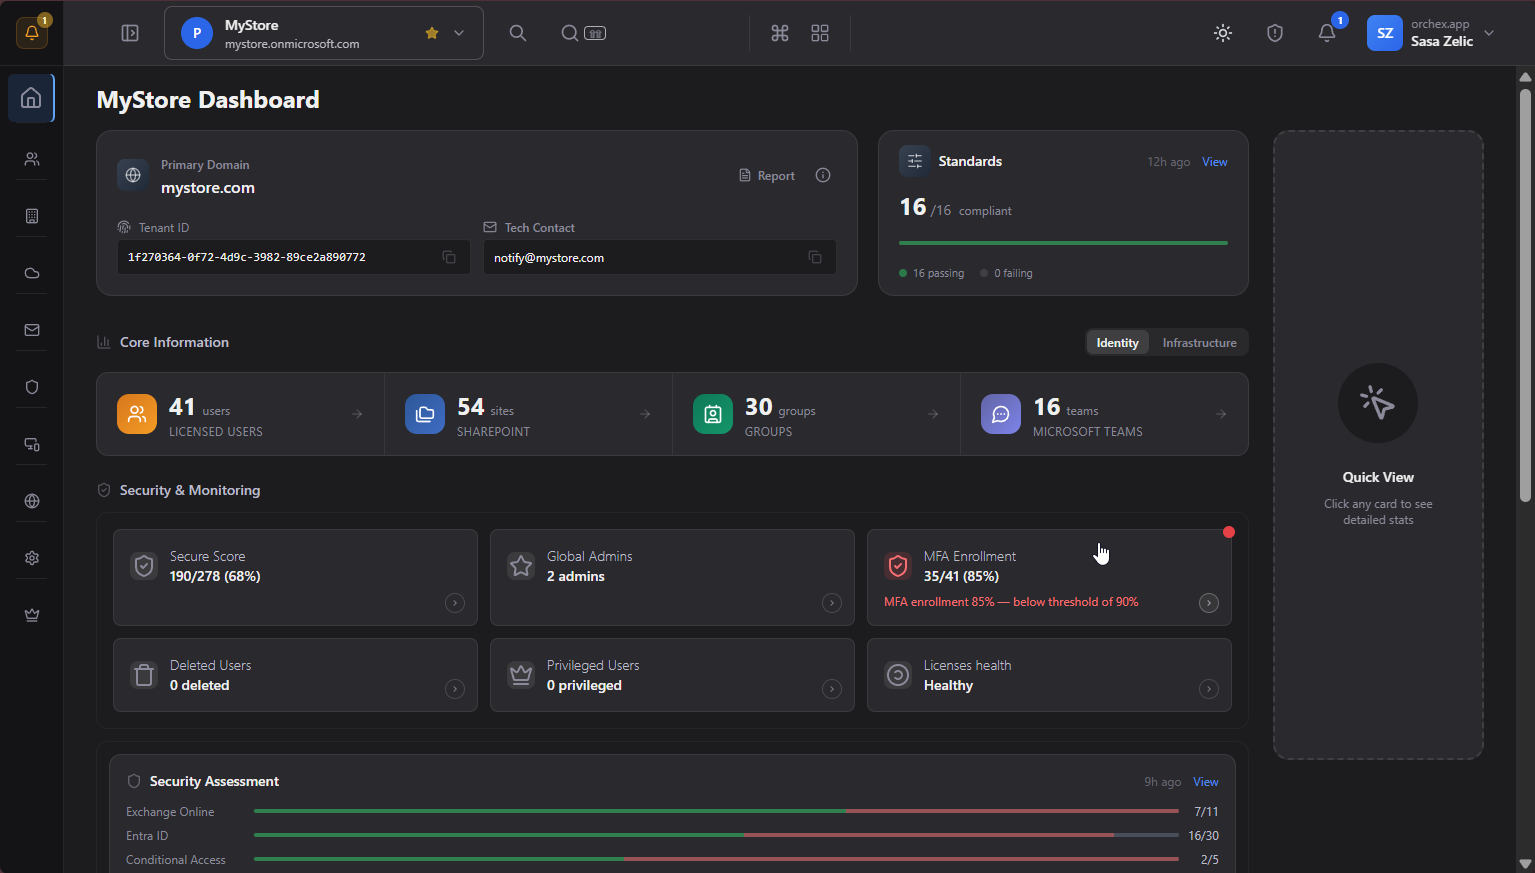
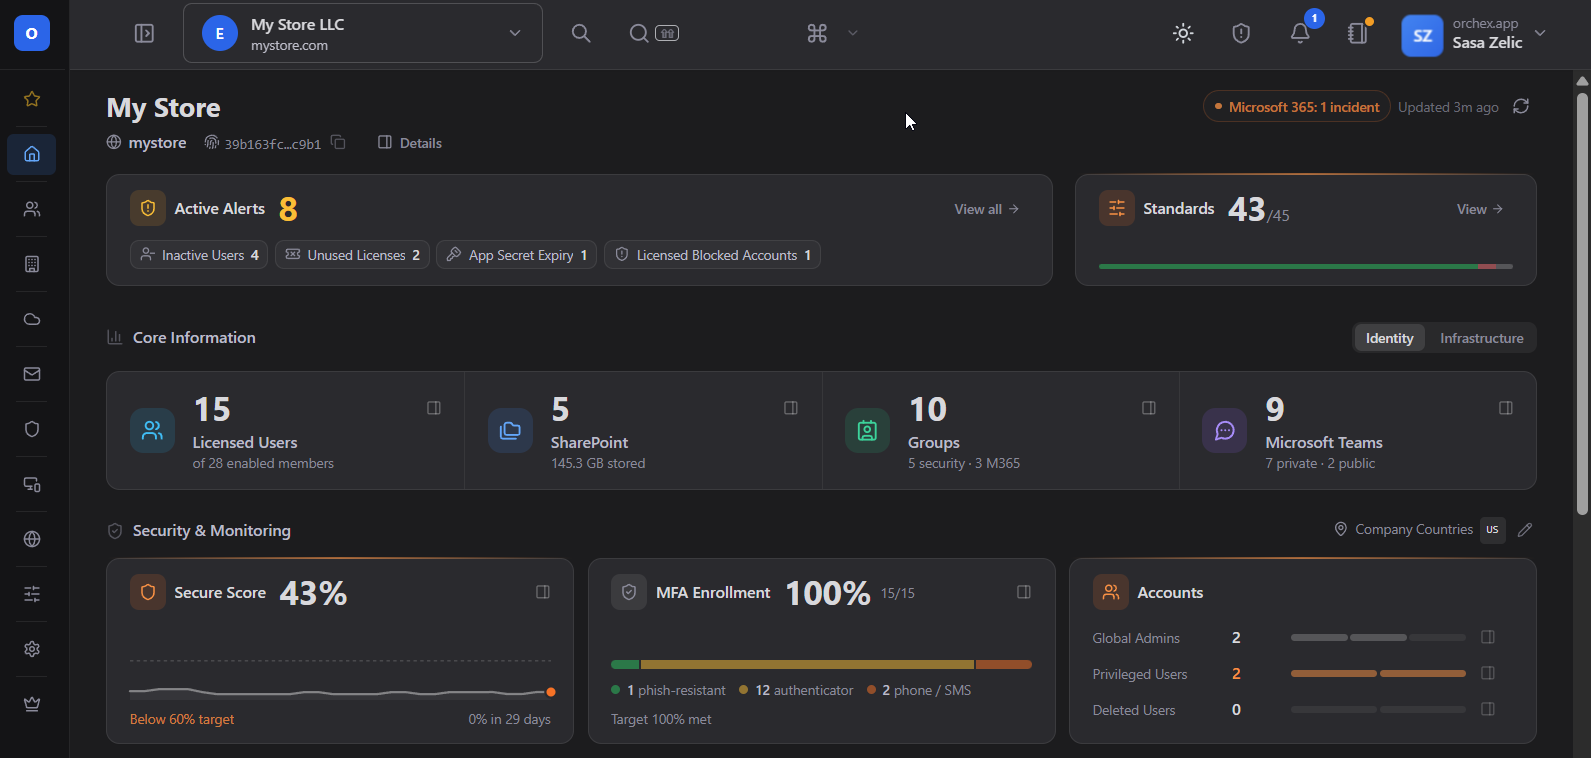
Refresh screenshots, drop three feature sections, move Client Requests down
Fit each paired screenshot's flex to its new shape so pairs render at one
height. Remove the Tenant Capabilities, Tenant Management and SharePoint
sections and the Effective Standards shot (Standards is now 2 x 2), and
move Client Requests ahead of Teams.

diff --git a/src/App.vue b/src/App.vue
@@ -100,34 +100,18 @@
           </ul>
         </div>
         <div class="feature-wide-img-row feature-wide-img-row--compact">
-          <div class="feature-wide-img" style="flex: 1.21">
+          <div class="feature-wide-img" style="flex: 1.18">
             <img src="/images/UserOnboard.png" alt="ORCHEX User Onboarding — results" />
             <div class="feature-sub-caption">
               <strong>Onboarding — Results</strong>
             </div>
           </div>
-          <div class="feature-wide-img" style="flex: 1.34">
+          <div class="feature-wide-img" style="flex: 1.30">
             <img src="/images/UserOffboard.png" alt="ORCHEX User Offboarding — configure actions" />
             <div class="feature-sub-caption">
               <strong>Offboarding — Configure Actions</strong>
             </div>
           </div>
-        </div>
-      </div>
-
-      <!-- 2. Client Requests — extends lifecycle story -->
-      <div class="feature-wide">
-        <div class="feature-wide-header">
-          <span class="feature-label">User Lifecycle</span>
-          <h2>Let clients submit requests. You stay in control.</h2>
-          <ul class="feature-list feature-list-cols">
-            <li>Pre-fills the wizard — name, job title, tenant, copy-from user, notes</li>
-            <li>API-key authentication — one key per client portal, revocable instantly</li>
-            <li>Human in the loop — no automatic tenant changes, ever</li>
-          </ul>
-        </div>
-        <div class="feature-wide-img">
-          <img src="/images/ClientRequests.png" alt="ORCHEX Client Requests — onboarding and offboarding intake queue" />
         </div>
       </div>
 
@@ -146,21 +130,17 @@
             <li>Track compliance over time — daily % across all tenants, with per-tenant drill-down at any point in history</li>
           </ul>
         </div>
-        <div class="feature-wide-img">
-          <img src="/images/Standards.png" alt="ORCHEX Standards Templates — enforce settings across all tenants" />
-        </div>
-
         <div class="feature-wide-img-row">
-          <div class="feature-wide-img" style="flex: 2.22">
+          <div class="feature-wide-img" style="flex: 2.35">
+            <img src="/images/Standards.png" alt="ORCHEX Standards Templates — enforce settings across all tenants" />
+            <div class="feature-sub-caption">
+              <strong>Standards Templates</strong>
+            </div>
+          </div>
+          <div class="feature-wide-img" style="flex: 2.32">
             <img src="/images/StandardsCompliance.png" alt="ORCHEX Standards Compliance — track compliance across all tenants" />
             <div class="feature-sub-caption">
               <strong>Standards Compliance</strong>
-            </div>
-          </div>
-          <div class="feature-wide-img" style="flex: 2.27">
-            <img src="/images/EffectiveStandards.png" alt="ORCHEX Effective Standards — inspect what is applied to a tenant" />
-            <div class="feature-sub-caption">
-              <strong>Effective Standards</strong>
             </div>
           </div>
         </div>
@@ -197,13 +177,13 @@
           </ul>
         </div>
         <div class="feature-wide-img-row">
-          <div class="feature-wide-img" style="flex: 1.80">
+          <div class="feature-wide-img" style="flex: 1.63">
             <img src="/images/AlertsTable.png" alt="ORCHEX Security Alerts — active alerts across all tenants" />
             <div class="feature-sub-caption">
               <strong>Active Alerts</strong>
             </div>
           </div>
-          <div class="feature-wide-img" style="flex: 1.58">
+          <div class="feature-wide-img" style="flex: 1.63">
             <img src="/images/TenantAlertConfig.png" alt="ORCHEX Alert Configuration — per-alert-type settings and active checks" />
             <div class="feature-sub-caption">
               <strong>Alert Configuration</strong>
@@ -274,10 +254,10 @@
           </ul>
         </div>
         <div class="feature-wide-img-row">
-          <div class="feature-wide-img" style="flex: 2.48">
+          <div class="feature-wide-img" style="flex: 1.93">
             <img src="/images/SecurityAssesment.png" alt="ORCHEX Security Assessment — Exchange Online checks grouped by category with risk levels, baseline sources and standard badges" />
           </div>
-          <div class="feature-wide-img" style="flex: 2.27">
+          <div class="feature-wide-img" style="flex: 1.82">
             <img src="/images/SecurityAssesmentConfig.png" alt="ORCHEX Security Assessment Config — toggle checks per category, with app exclusion lists for the application-security checks" />
           </div>
         </div>
@@ -320,7 +300,7 @@
               <strong>Overview — click any card to filter the table</strong>
             </div>
           </div>
-          <div class="feature-wide-img" style="flex: 1.89">
+          <div class="feature-wide-img" style="flex: 1.86">
             <img src="/images/Licenses.png" alt="ORCHEX License Management — usage, availability and seats per SKU" />
             <div class="feature-sub-caption">
               <strong>Licenses — usage, availability and seats per SKU</strong>
@@ -355,7 +335,7 @@
               <strong>Overview — click a card to filter the table</strong>
             </div>
           </div>
-          <div class="feature-wide-img" style="flex: 2.37">
+          <div class="feature-wide-img" style="flex: 2.43">
             <img src="/images/Users.png" alt="ORCHEX Users — unified identity view" />
             <div class="feature-sub-caption">
               <strong>Users — the filtered result, one row per identity</strong>
@@ -432,37 +412,6 @@
         </div>
       </div>
 
-      <!-- 11. Tenant Capabilities — visibility -->
-      <div class="feature-wide">
-        <div class="feature-wide-header">
-          <span class="feature-label">Tenant Capabilities</span>
-          <h2>Know exactly which tenants have what — before it becomes a problem.</h2>
-          <ul class="feature-list feature-list-cols">
-            <li>License matrix across all tenants: Entra P1/P2, MDO, Intune P1/P2, Defender XDR</li>
-            <li>Smart filters: Missing Entra P1, Missing Entra P2, Fully covered</li>
-            <li>Per-tenant capability drill-down with source SKUs and unit counts</li>
-            <li>Purchase recommendations for missing capabilities</li>
-            <li>Scheduled background checks — always up to date without manual refresh</li>
-          </ul>
-        </div>
-        <!-- The sidebar shot is portrait and the matrix is landscape, so equal
-             columns would render it nearly three times taller. -->
-        <div class="feature-wide-img-row">
-          <div class="feature-wide-img" style="flex: 2.13">
-            <img src="/images/TenantCapabilities.png" alt="ORCHEX Tenant Capabilities — license matrix across all tenants" />
-            <div class="feature-sub-caption">
-              <strong>Capability Matrix</strong>
-            </div>
-          </div>
-          <div class="feature-wide-img" style="flex: 0.79">
-            <img src="/images/TenantCapabilitiesSidebar.png" alt="ORCHEX License Details — source SKUs and recommendations per tenant" />
-            <div class="feature-sub-caption">
-              <strong>License Details</strong>
-            </div>
-          </div>
-        </div>
-      </div>
-
       <!-- 12. Enterprise Applications — credential management -->
       <div class="feature-wide">
         <div class="feature-wide-header">
@@ -515,22 +464,19 @@
         </div>
       </div>
 
-      <!-- 17. Tenant Management — setup/admin -->
+      <!-- 2. Client Requests — extends lifecycle story -->
       <div class="feature-wide">
         <div class="feature-wide-header">
-          <span class="feature-label">Tenant Management</span>
-          <h2>Full control over every tenant connection.</h2>
+          <span class="feature-label">User Lifecycle</span>
+          <h2>Let clients submit requests. You stay in control.</h2>
           <ul class="feature-list feature-list-cols">
-            <li>CPV tab — consent status per tenant, re-run consent directly from the portal</li>
-            <li>Permissions tab — verify all app registration roles and delegated scopes are assigned</li>
-            <li>Access Check tab — verify portal access to each tenant on demand or on a schedule</li>
-            <li>GDAP Health tab — relationship status, expiry dates, and assigned roles per tenant</li>
-            <li>Daily automated checks — expiring GDAP, stale CPV consent, and access failures surface as Portal Health warnings</li>
-            <li>Schedule Apply Permissions — push updated app permissions to all tenants with one click</li>
+            <li>Pre-fills the wizard — name, job title, tenant, copy-from user, notes</li>
+            <li>API-key authentication — one key per client portal, revocable instantly</li>
+            <li>Human in the loop — no automatic tenant changes, ever</li>
           </ul>
         </div>
         <div class="feature-wide-img">
-          <img src="/images/Tenants.png" alt="ORCHEX Tenant Management — permissions, CPV, GDAP and access check" />
+          <img src="/images/ClientRequests.png" alt="ORCHEX Client Requests — onboarding and offboarding intake queue" />
         </div>
       </div>
 
@@ -548,45 +494,16 @@
           </ul>
         </div>
         <div class="feature-wide-img-row">
-          <div class="feature-wide-img" style="flex: 1.90">
+          <div class="feature-wide-img" style="flex: 1.79">
             <img src="/images/TeamsOverview.png" alt="ORCHEX Teams Overview — tenant storage, visibility split and storage per team" />
             <div class="feature-sub-caption">
               <strong>Overview — storage per team, largest first</strong>
             </div>
           </div>
-          <div class="feature-wide-img" style="flex: 1.78">
+          <div class="feature-wide-img" style="flex: 1.70">
             <img src="/images/Teams.png" alt="ORCHEX Teams — members, owners, guests, channels and storage per team" />
             <div class="feature-sub-caption">
               <strong>Teams — owners, guests and channels in one row</strong>
-            </div>
-          </div>
-        </div>
-      </div>
-
-      <!-- 19. SharePoint -->
-      <div class="feature-wide">
-        <div class="feature-wide-header">
-          <span class="feature-label">SharePoint</span>
-          <h2>Where the storage went — and what the capacity is made of.</h2>
-          <ul class="feature-list feature-list-cols">
-            <li>Capacity broken into its parts: base allocation, licence contribution and purchased add-ons</li>
-            <li>Top storage consumers ranked, next to the sites nobody has opened in a year</li>
-            <li>Quick filters: large sites &gt;50 GB, high file count, inactive &gt;90 days, storage critical &gt;90%</li>
-            <li>Teams and system sites counted separately, so a site count means what you expect</li>
-            <li>Per-site usage against quota, file count and last activity in a single row</li>
-          </ul>
-        </div>
-        <div class="feature-wide-img-row">
-          <div class="feature-wide-img" style="flex: 1.74">
-            <img src="/images/SharePointOverview.png" alt="ORCHEX SharePoint Overview — storage used against capacity, storage breakdown, site types and top consumers" />
-            <div class="feature-sub-caption">
-              <strong>Overview — what the capacity is made of</strong>
-            </div>
-          </div>
-          <div class="feature-wide-img" style="flex: 1.73">
-            <img src="/images/SharePoint.png" alt="ORCHEX SharePoint Sites — usage against quota, file counts and last activity per site" />
-            <div class="feature-sub-caption">
-              <strong>Sites — usage, files and last activity</strong>
             </div>
           </div>
         </div>
